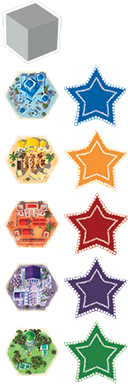
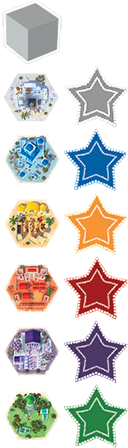
show quarry counter for solo lvl 2

diff --git a/akropolis.css b/akropolis.css
@@ -248,26 +248,32 @@
   width: 24px;
   height: 24px;
 }
+.player-board .score-icon[data-type="0"] {
+  background-position: 0% 16.6666666667%;
+}
+.player-board .score-icon[data-type="0"].star {
+  background-position-x: 100%;
+}
 .player-board .score-icon[data-type="1"] {
-  background-position: 0% 20%;
+  background-position: 0% 33.3333333333%;
 }
 .player-board .score-icon[data-type="1"].star {
   background-position-x: 100%;
 }
 .player-board .score-icon[data-type="2"] {
-  background-position: 0% 40%;
+  background-position: 0% 50%;
 }
 .player-board .score-icon[data-type="2"].star {
   background-position-x: 100%;
 }
 .player-board .score-icon[data-type="3"] {
-  background-position: 0% 60%;
+  background-position: 0% 66.6666666667%;
 }
 .player-board .score-icon[data-type="3"].star {
   background-position-x: 100%;
 }
 .player-board .score-icon[data-type="4"] {
-  background-position: 0% 80%;
+  background-position: 0% 83.3333333333%;
 }
 .player-board .score-icon[data-type="4"].star {
   background-position-x: 100%;

diff --git a/src/akropolis.ts b/src/akropolis.ts
@@ -6,6 +6,7 @@ declare const _;
 declare const g_gamethemeurl;
 
 const TYPES = {
+    0: 'quarry',
     1: 'house',
     2: 'market',
     3: 'barrack',
@@ -14,6 +15,7 @@ const TYPES = {
 };
 
 const TYPES_REVERSE = {
+    quarry: 0,
     house: 1,
     market: 2,
     barrack: 3,
@@ -266,7 +268,7 @@ class Akropolis implements AkropolisGame {
             this.hexesCounters[playerId] = [];
             this.starsCounters[playerId] = [];
             this.colorPointsCounters[playerId] = [];
-            for (let i = 1; i <= 5; i++) {
+            for (let i = (playerId == 0 && player.lvl == 1 ? 0 : 1); i <= 5; i++) {
                 let html = `<div class="counters ${!showScores && !someVariants ? 'hide-live-scores' : ''}" id="color-points-${i}-counter-border-${player.id}">
                     <div id="color-points-${i}-counter-wrapper-${player.id}" class="color-points-counter">
                         <span class="${!showScores ? 'hide-live-scores' : ''}">

diff --git a/akropolis.js b/akropolis.js
@@ -665,6 +665,7 @@ var PlayerTable = /** @class */ (function () {
     return PlayerTable;
 }());
 var TYPES = {
+    0: 'quarry',
     1: 'house',
     2: 'market',
     3: 'barrack',
@@ -672,6 +673,7 @@ var TYPES = {
     5: 'garden',
 };
 var TYPES_REVERSE = {
+    quarry: 0,
     house: 1,
     market: 2,
     barrack: 3,
@@ -883,7 +885,7 @@ var Akropolis = /** @class */ (function () {
                 }
                 _this.setTooltip("color-points-".concat(i, "-counter-border-").concat(player.id), tooltip);
             };
-            for (var i = 1; i <= 5; i++) {
+            for (var i = (playerId == 0 && player.lvl == 1 ? 0 : 1); i <= 5; i++) {
                 _loop_1(i);
             }
         });

diff --git a/src/_playerboards.scss b/src/_playerboards.scss
@@ -28,9 +28,9 @@
     width: 24px;
     height: 24px;
     
-    @for $i from 1 through 5 {
+    @for $i from 0 through 5 {
       &[data-type="#{$i}"] {
-        background-position: 0% #{$i * 20%};
+        background-position: 0% #{($i + 1) * 100% / 6};
 
         &.star {
           background-position-x: 100%;
